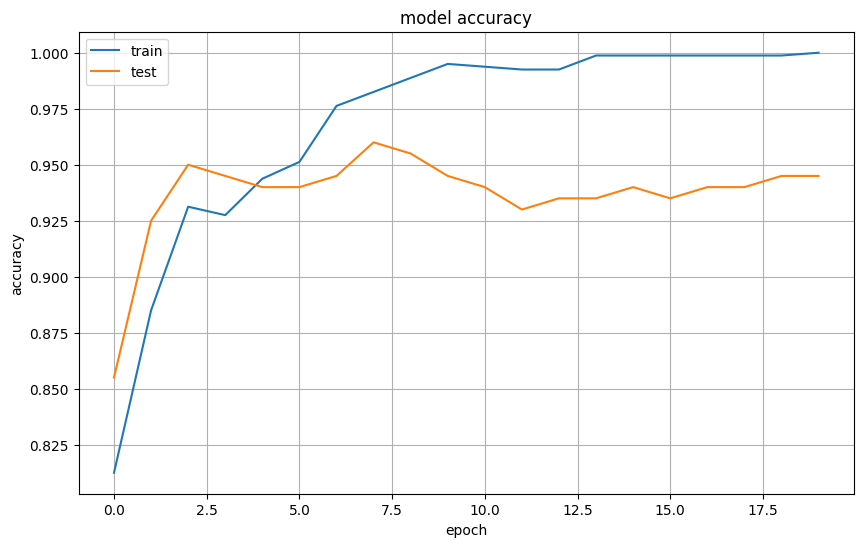
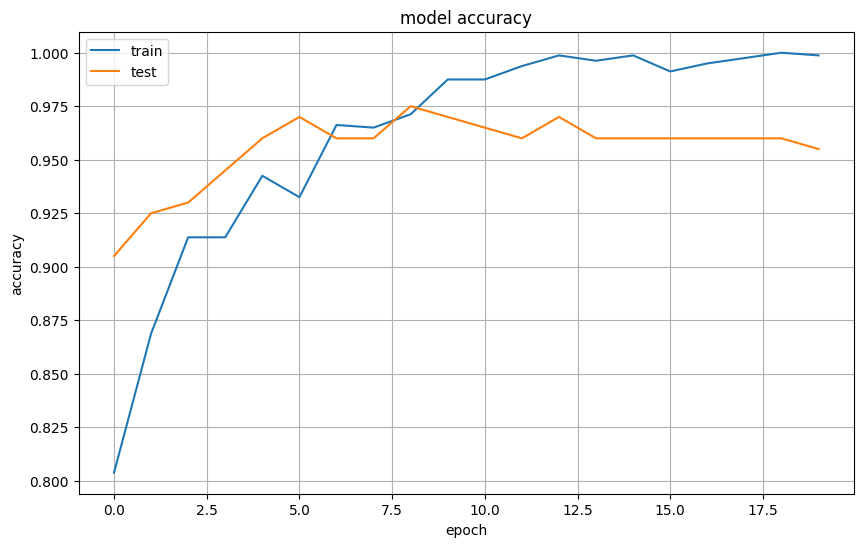
Add files via upload

diff --git a/violenceDetection5Fold.py b/violenceDetection5Fold.py
@@ -1,0 +1,98 @@
+import os
+import pandas as pd
+from numpy.random import seed, shuffle
+seed(42)
+import random 
+random.seed(42)
+from tensorflow.random import set_seed
+set_seed(42)
+from tensorflow.keras.callbacks import EarlyStopping, ReduceLROnPlateau, Callback, ModelCheckpoint
+from tensorflow.keras.optimizers import RMSprop, Adam
+from tensorflow.keras.models import load_model
+from datasetProcess import *
+from dataGenerator import *
+from utils import *
+import sepConvLstmNet
+import shutil
+import pickle
+
+dataset = 'hockey'
+dataset_videos = {'hockey':'raw_videos/hockey','movies':'raw_videos/movies'}
+crop_dark = {
+    hocky = (16,45),
+    movies = (18,48)
+}
+
+batch_size = 4   #2
+vid_len = 20   #10
+frame_size = 224
+
+bestModelPath = '/gdrive/My Drive/THESIS/Data/' + str(dataset) + '_bestModel.h5'
+epochs = 50
+
+
+
+splits = five_fold_split(dataset_name=dataset,source=dataset_videos[dataset])
+history_on_each_split = []
+split_num = 0
+
+for split in splits:
+    split_num += 1
+    if os.path.exist('/{}'.format(dataset)):
+        shutil.rmtree('/{}'.format(dataset))
+    os.mkdir(dataset)
+    os.mkdir(os.path.join(dataset,'videos'))    
+    move_train_test(dest='/{}/videos'.format(dataset),data=split)
+    os.mkdir(os.path.join(dataset,'processed'))
+    convert_dataset_to_npy(src='/{}/videos'.format(dataset),dest='/{}/processed'.format(dataset),crop_x_y=crop_dark[dataset])
+    
+    train_generator = DataGenerator(directory='{}/processed/train'.format(dataset), 
+                                        batch_size=batch_size, 
+                                        data_augmentation=True,
+                                        shuffle=False,
+                                        one_hot = False,
+                                        target_frames=vid_len)
+    test_generator = DataGenerator(directory='{}/processed/test'.format(dataset),
+                                        batch_size=batch_size, 
+                                        data_augmentation=False,
+                                        shuffle=False,
+                                        one_hot=False,
+                                        target_frames=vid_len)
+
+    print('creating new model...')
+    model = sepConvLstmNet.getModel(size=frame_size, seq_len=vid_len , cnn_weight = 'imagenet')
+    print('new model created')
+    print(model.summary())
+
+    optimizer = RMSprop(lr=7e-05)
+    model.compile(optimizer=optimizer, loss='binary_crossentropy',metrics=['acc'])
+    modelcheckpoint = ModelCheckpoint(bestModelPath, monitor='val_loss', verbose=1, save_best_only=True, mode='auto', period=1)    
+
+    history = model.fit(
+        steps_per_epoch=len(train_generator),
+        x=train_generator,
+        epochs=epochs,
+        validation_data=test_generator,
+        validation_steps=len(test_generator),
+        verbose = 1,
+        workers = 8,
+        max_queue_size= 8,
+        use_multiprocessing = False,
+        callbacks=[EarlyStopping(monitor='val_loss', min_delta=0.001, patience=15 ),
+                   #ReduceLROnPlateau(monitor='val_loss', factor=0.5, patience=3, min_lr=1e-8, verbose=1),
+                   modelcheckpoint
+                   ]
+        )
+    history_to_save = history.history
+    history_on_each_split.append(history_to_save)
+    savePath = '/gdrive/My Drive/THESIS/Data/' + str(dataset)
+    save_plot_history(history=history_to_save, save_path= savePath,split_num=split_num)
+    
+
+historyFile = str(dataset) + '_historyOnEachSplit.pickle'
+try:
+    file_ = open(historyFile, 'wb')
+    pickle.dump(history_on_each_split, file_)
+    print('saved', historyFile)
+except Exception as e:
+    print(e)

diff --git a/sepConvLstmNet.py b/sepConvLstmNet.py
@@ -30,14 +30,14 @@ def getModel(size=224, seq_len=20 , cnn_weight=None, lstm_conf=None ):
     flat = Flatten()(lstm)
     x = BatchNormalization()(flat)
     
-    x = Dense(512,activation = 'relu')(x)
-    x = Dropout(0.2)(x)
+    x = Dense(768,activation = 'relu')(x)
+    x = Dropout(0.3)(x)
     
     x = Dense(256,activation='relu')(x)
-    x = Dropout(0.2)(x)
+    x = Dropout(0.3)(x)
 
     x = Dense(10,activation='relu')(x)
-    x = Dropout(0.1)(x)
+    x = Dropout(0.2)(x)
 
     activation = 'sigmoid'
     
